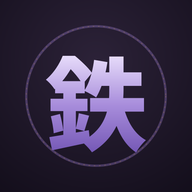
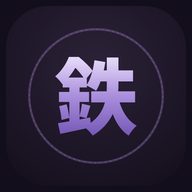
Add files via upload
Icon fix

Changed region(s): [[0.125, 0.125, 0.875, 0.875]]

diff --git a/index.html b/index.html
@@ -560,7 +560,7 @@ function makeDefaultPlan(){ return []; }
 
 /* ============================== STORAGE ============================== */
 const K = { w:"il.workoutLog", f:"il.foodLog", b:"il.weightLog", p:"il.trainingPlan", cf:"il.customFoods", ce:"il.customExercises", pr:"il.profile", mp:"il.mealPlan", mpl:"il.mealPlans", meta:"il.meta" };
-const APP_VERSION = "v28";
+const APP_VERSION = "v30";
 function load(key, fb){ try{ const v=localStorage.getItem(key); return v ? JSON.parse(v) : fb; }catch(e){ return fb; } }
 function save(key, val){ try{ localStorage.setItem(key, JSON.stringify(val)); }catch(e){ console.error("save failed", e); } }
 

diff --git a/sw.js b/sw.js
@@ -1,5 +1,5 @@
 /* IronTrunks service worker — offline app shell cache */
-const CACHE = "irontrunks-v28";
+const CACHE = "irontrunks-v30";
 const ASSETS = [
   "./",
   "./index.html",